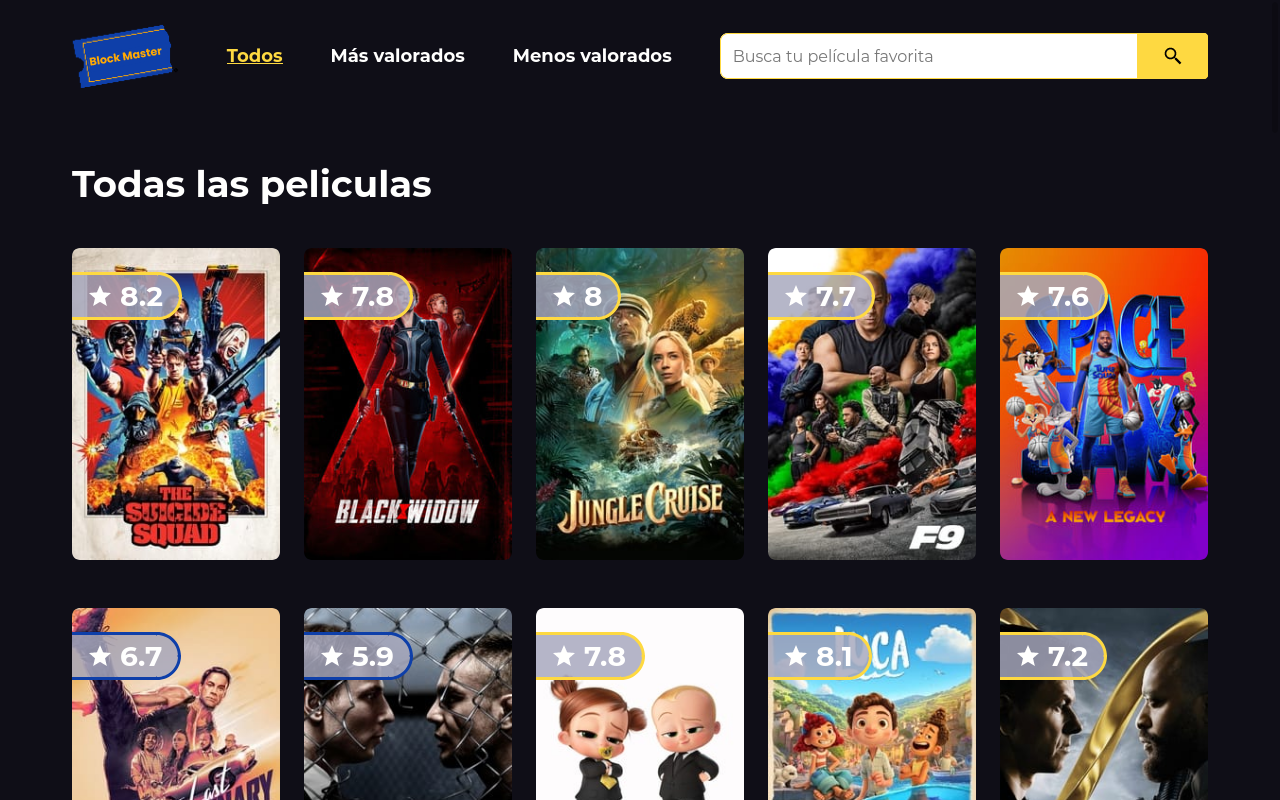
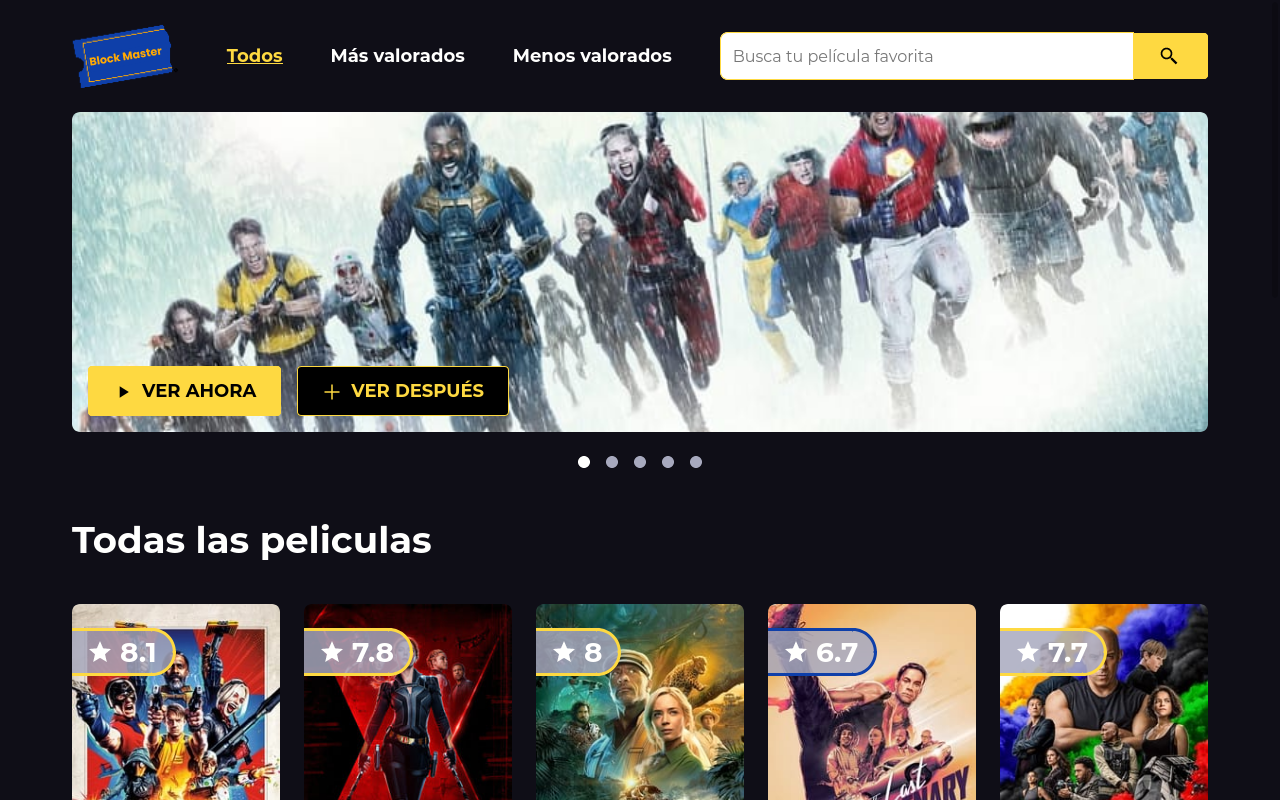
Adding Slider component

diff --git a/src/components/Slider/index.jsx b/src/components/Slider/index.jsx
@@ -1,0 +1,58 @@
+import React, { useEffect, useState } from "react";
+import { useDispatch, useSelector } from "react-redux";
+import { SlideStyled, SlideDotsStyled, SlideDotStyled } from "./SliderElement";
+import SliderImage from "../SliderImage";
+import Wrapper from "../Wrapper";
+import api from "../../api";
+import { TRENDING_MOVIES } from "../../actions";
+
+const Slider = () => {
+  const [slideIndex, setSlideIndex] = useState(1);
+  const state = useSelector((state) => state);
+  const trendingListId = state.list["allTrending"];
+  const trendingList = state.movieTrending;
+  const dispatch = useDispatch();
+
+  const getTrendingMovies = async () => {
+    const { results } = await api.trendingMovie();
+    dispatch({
+      type: TRENDING_MOVIES,
+      payload: results.slice(0, 5),
+    });
+  };
+
+  const moveDot = (index) => {
+    setSlideIndex(index);
+  };
+
+  useEffect(() => {
+    getTrendingMovies();
+  }, []);
+
+  return (
+    <>
+      <Wrapper>
+        <SlideStyled>
+          {trendingListId.map((id, index) => (
+            <SliderImage
+              key={index}
+              movie={trendingList.get(id)}
+              isVisible={slideIndex === index + 1}
+            />
+          ))}
+        </SlideStyled>
+      </Wrapper>
+      <SlideDotsStyled>
+        {Array.from({ length: 5 }).map((item, index) => (
+          <SlideDotStyled
+            key={index}
+            isActive={slideIndex === index + 1}
+            onClick={() => moveDot(index + 1)}
+          />
+        ))}
+      </SlideDotsStyled>
+    </>
+  );
+};
+
+export default Slider;

diff --git a/src/components/SliderImage.jsx b/src/components/SliderImage.jsx
@@ -1,0 +1,51 @@
+import React from "react";
+import { IPlay, IPlus } from "../icons";
+import Button from "./Button";
+import styled from "styled-components";
+
+const SlideWrapperStyled = styled.div`
+  width: 100%;
+  height: 100%;
+  position: absolute;
+  opacity: ${({ isVisible }) => (isVisible ? 1 : 0)};
+  transition: opacity ease-in-out 0.4s;
+`;
+const SlideImageStyled = styled.img`
+  width: inherit;
+  height: inherit;
+  object-fit: cover;
+  object-position: center;
+`;
+const SlideButtonsStyled = styled.div`
+  display: none;
+  @media screen and (min-width: 992px) {
+    position: absolute;
+    bottom: var(--md);
+    left: var(--md);
+    display: flex;
+    gap: var(--md);
+  }
+`;
+
+const SliderImage = ({ movie, isVisible, ...otherProps }) => {
+  const { backdrop_path, title } = movie;
+
+  return (
+    <SlideWrapperStyled isVisible={isVisible} {...otherProps}>
+      <SlideImageStyled
+        src={`//image.tmdb.org/t/p/w780${backdrop_path}`}
+        alt={title}
+      />
+      <SlideButtonsStyled>
+        <Button typeBtn="primary" type="button">
+          <IPlay /> VER AHORA
+        </Button>
+        <Button typeBtn="secondary" type="button">
+          <IPlus /> VER DESPUÉS
+        </Button>
+      </SlideButtonsStyled>
+    </SlideWrapperStyled>
+  );
+};
+
+export default SliderImage;

diff --git a/src/components/Slider/SliderElement.js b/src/components/Slider/SliderElement.js
@@ -1,0 +1,25 @@
+import styled from "styled-components";
+
+export const SlideStyled = styled.div`
+  height: var(--h-slider);
+  position: relative;
+  overflow: hidden;
+  border-radius: var(--sm);
+  margin-bottom: var(--sm);
+  @media screen and (min-width: 768px) {
+    margin-bottom: var(--lg);
+  }
+`;
+
+export const SlideDotsStyled = styled.div`
+  display: flex;
+  justify-content: center;
+  gap: var(--md);
+`;
+export const SlideDotStyled = styled.div`
+  width: var(--w-slider-button);
+  height: var(--w-slider-button);
+  border-radius: 50%;
+  background: ${({ isActive }) => (isActive ? "var(--white)" : "var(--grey)")};
+  cursor: pointer;
+`;

diff --git a/src/App.jsx b/src/App.jsx
@@ -5,6 +5,7 @@ import logo from "./images/logo.svg";
 import Modal from "./components/Modal";
 import useModal from "./hooks/useModal";
 import MovieDetail from "./components/MovieDetail";
+import Slider from "./components/Slider";
 
 const App = () => {
   const [modal, openModal, closeModal] = useModal();
@@ -12,6 +13,7 @@ const App = () => {
   return (
     <Fragment>
       <Header logo={logo} title="Block Master" />
+      <Slider />
       <MovieList openModal={openModal} />
       <Modal openModal={modal} closeModal={closeModal}>
         <MovieDetail />

diff --git a/src/index.css b/src/index.css
@@ -48,6 +48,8 @@
   --w-loader: 40px;
   --border-loader: 4px;
   --w-card-modal: 10rem;
+  --h-slider: 6.5rem;
+  --w-slider-button: 12px;
   --w-size: 73rem;
   --h-full: 100vh;
 }
@@ -66,6 +68,7 @@
     --w-loader: 60px;
     --border-loader: 6px;
     --w-card-modal: 15rem;
+    --h-slider: 15rem;
   }
 }
 @media screen and (min-width: 992px) {
@@ -77,6 +80,7 @@
     --w-loader: 80px;
     --border-loader: 8px;
     --w-card-modal: 18rem;
+    --h-slider: 20rem;
   }
 }
 
